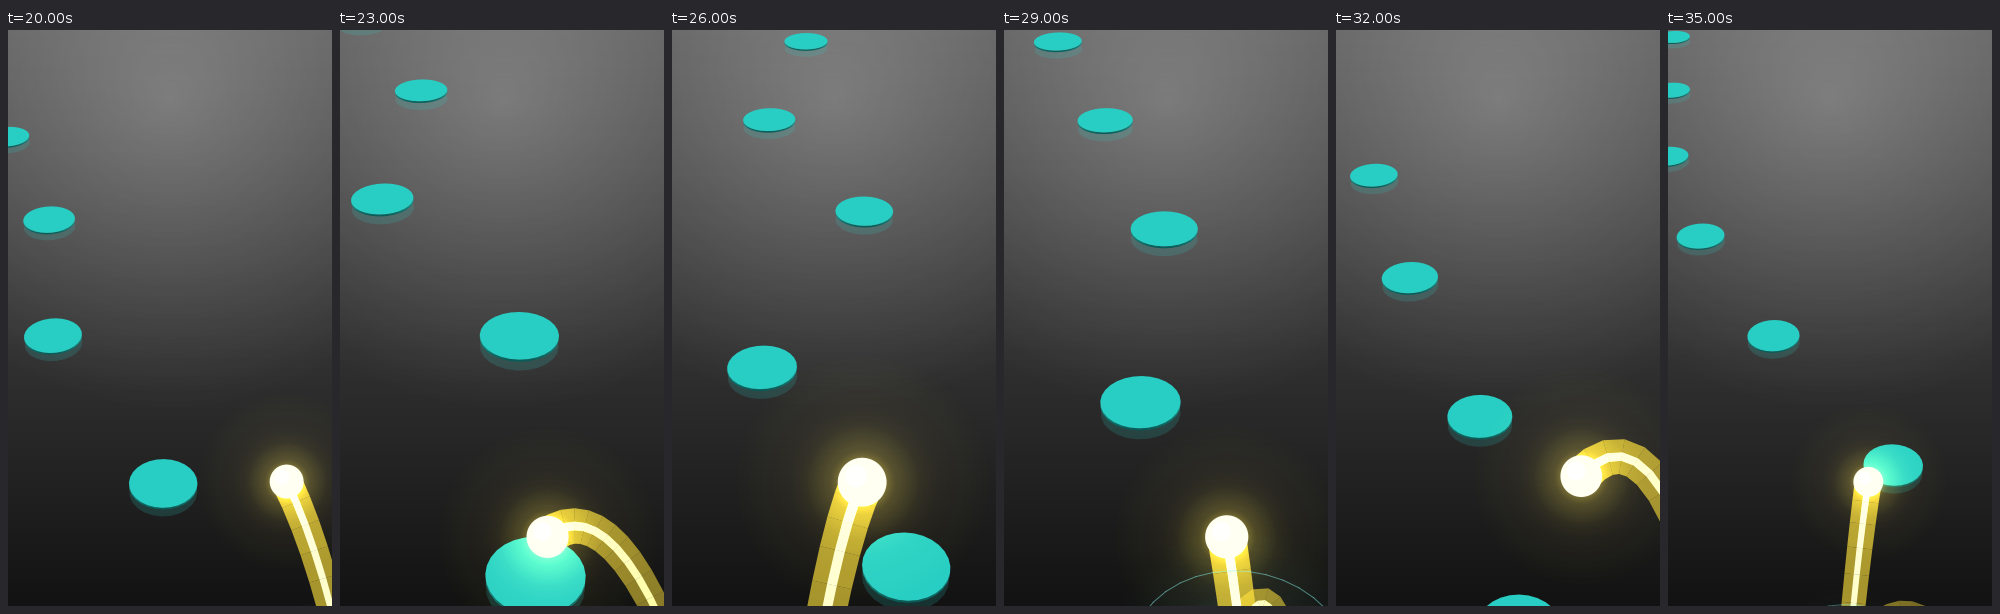
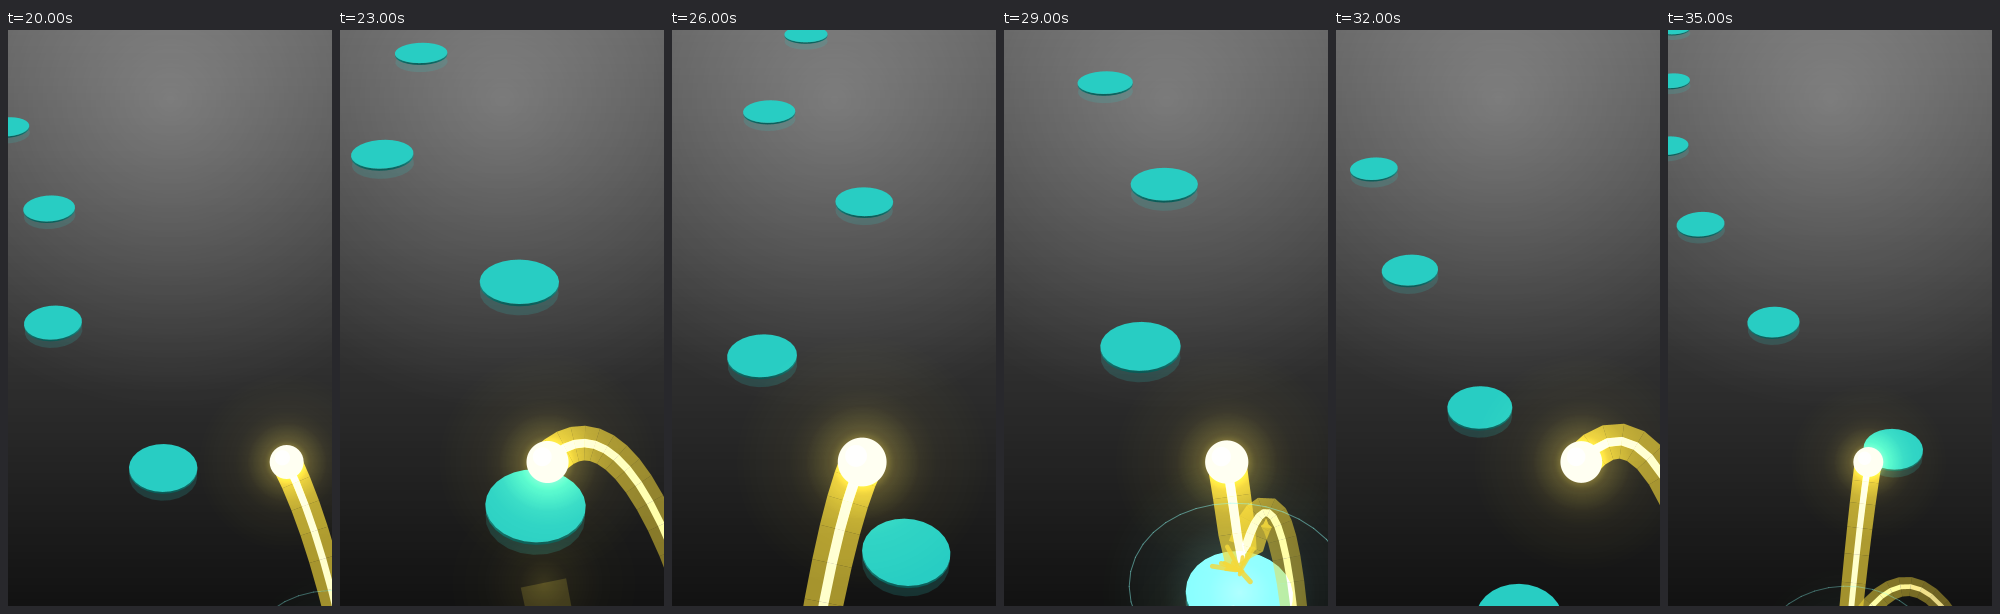
Arch portrait: keep the hero out of the bottom quarter
Found by checking Journey with the new default looks: in 9:16 the look-ahead camera left the hero
hugging (and sometimes crossing) the lower edge. The hard safe-area guarantee now reserves the
bottom 25 % in portrait.

Claude-Session: https://claude.ai/code/session_01S3A4w7DDqDnci9S3yTkWee

diff --git a/core/src/main/kotlin/com/rhythmphysics/core/mechanic/arch/ArchMechanic.kt b/core/src/main/kotlin/com/rhythmphysics/core/mechanic/arch/ArchMechanic.kt
@@ -199,8 +199,11 @@ class ArchMechanic : MechanicController {
         repeat(3) {
             if (!cam.project(h)) return@repeat
             val mx = vp.w * 0.14f; val my = vp.h * 0.12f
+            // Portrait: keep the hero out of the bottom quarter (it was hugging the lower edge while
+            // the camera looked ahead down the course).
+            val myBottom = if (vp.isPortrait) vp.h * 0.25f else my
             val dx = when { cam.outX < vp.x + mx -> cam.outX - (vp.x + mx); cam.outX > vp.x + vp.w - mx -> cam.outX - (vp.x + vp.w - mx); else -> 0f }
-            val dy = when { cam.outY < vp.y + my -> cam.outY - (vp.y + my); cam.outY > vp.y + vp.h - my -> cam.outY - (vp.y + vp.h - my); else -> 0f }
+            val dy = when { cam.outY < vp.y + my -> cam.outY - (vp.y + my); cam.outY > vp.y + vp.h - myBottom -> cam.outY - (vp.y + vp.h - myBottom); else -> 0f }
             if (dx == 0f && dy == 0f) return@repeat
             val viewDir = (cam.target - cam.position).normalized()
             val right = (viewDir cross Vec3.UP).normalized(); val up = (right cross viewDir).normalized()
